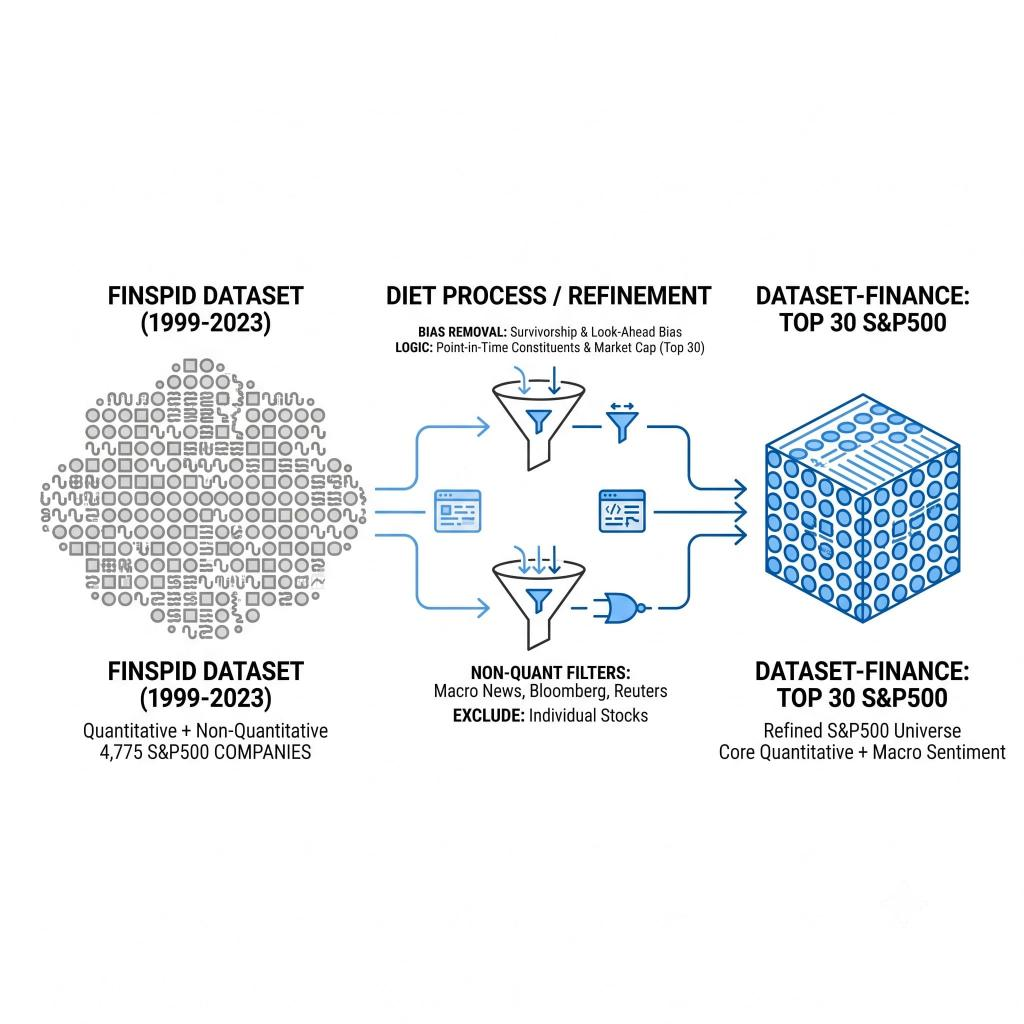
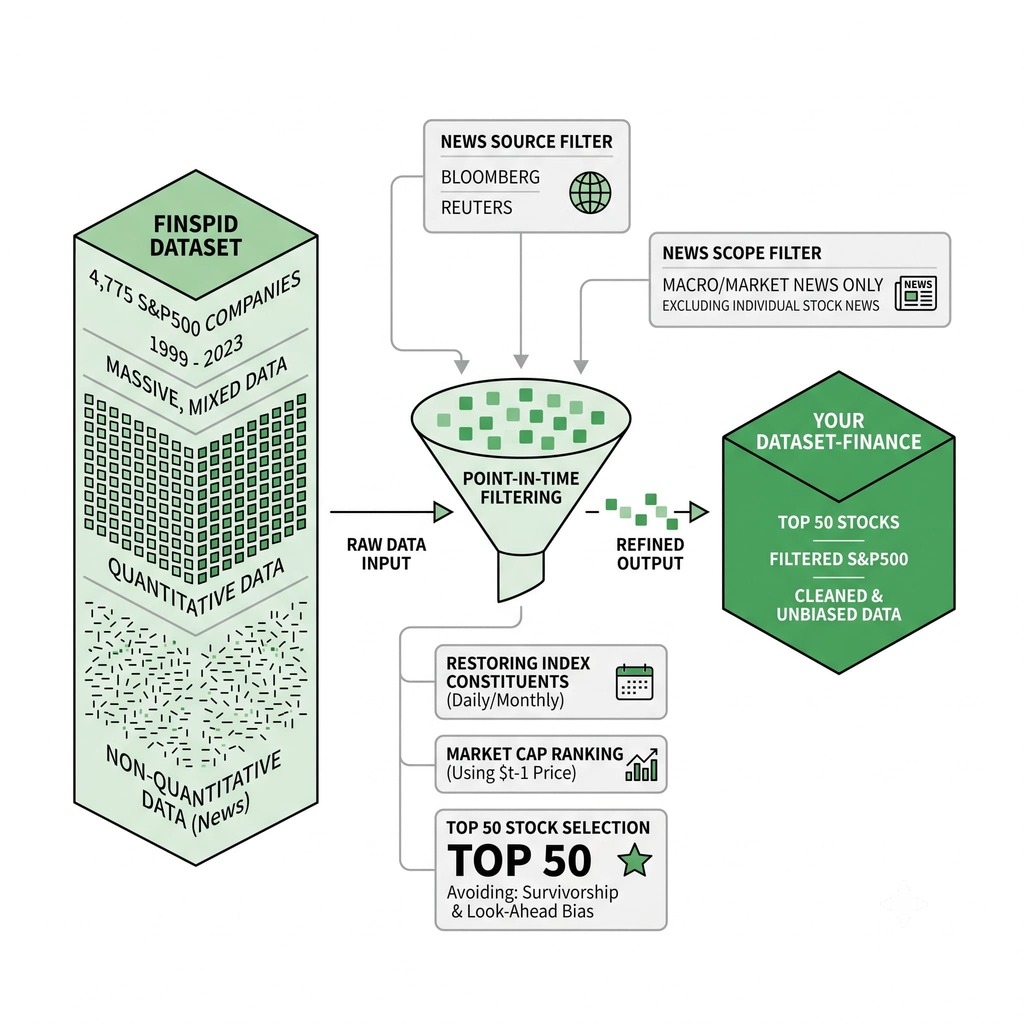
fix: cards

Changed region(s): [[0.0312, 0.1562, 0.9688, 0.9062], [0.4062, 0.125, 0.625, 0.2188]]

diff --git a/index.html b/index.html
@@ -340,8 +340,8 @@
         <!-- Desktop: Buttons (Hidden on Mobile) -->
         <div class="hidden md:flex gap-4" id="filter-container">
             <button class="filter-btn active bauhaus-border px-8 py-3" data-category="all">All Spokes</button>
-            <button class="filter-btn bauhaus-border px-8 py-3" data-category="web">Web/CMS</button>
-            <button class="filter-btn bauhaus-border px-8 py-3" data-category="python">Data</button>
+            <button class="filter-btn bauhaus-border px-8 py-3" data-category="data_static">data_static</button>
+            <button class="filter-btn bauhaus-border px-8 py-3" data-category="data_dynamic">data_dynamic</button>
             <button class="filter-btn bauhaus-border px-8 py-3" data-category="ai">AI</button>
         </div>
         <!-- Mobile: Dropdown (Hidden on Desktop) -->
@@ -350,8 +350,8 @@
                 <select id="mobile-filter"
                     class="mobile-select w-full bauhaus-border px-4 py-4 font-black uppercase text-xs tracking-[0.2em] bg-white appearance-none cursor-pointer outline-none focus:border-[var(--bauhaus-red)]">
                     <option value="all">Category: All Spokes</option>
-                    <option value="web">Category: Web/CMS</option>
-                    <option value="python">Category: Data</option>
+                    <option value="data_static">Category: data_static</option>
+                    <option value="data_dynamic">Category: data_dynamic</option>
                     <option value="ai">Category: AI</option>
                 </select>
             </div>
@@ -545,8 +545,8 @@
 
         const FILTER_THEMES = {
             ai: { type: 'circle', color: '#FFB703' },
-            python: { type: 'triangle', color: '#1D3557' },
-            web: { type: 'square', color: '#E63946' }
+            data_dynamic: { type: 'triangle', color: '#1D3557' },
+            data_static: { type: 'square', color: '#E63946' }
         };
 
         async function fetchData() {
